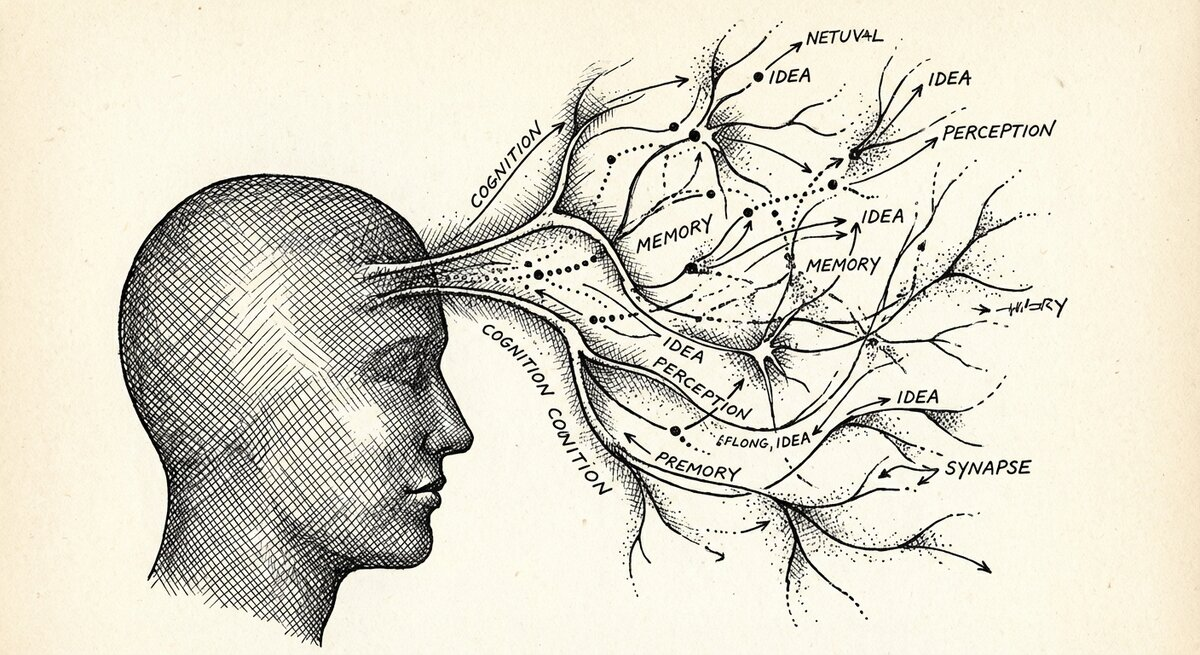
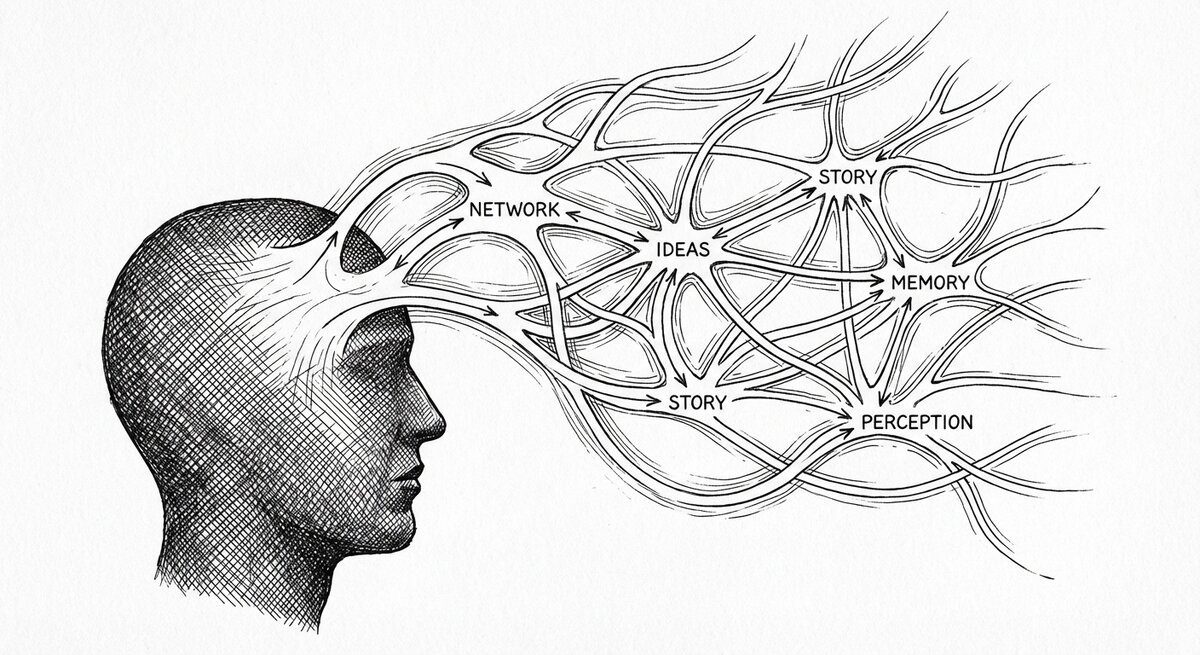
docs(figs): regenerate index_hero with correct English labels
The previous hero image on docs/index.md carried AI-gibberish labels
(NETUVAL, CONITION, EFLONG, PREMORY, HIRY) which immediately eroded
trust on the front page.

Regenerated with an explicit prompt constraint that nodes be labeled
ONLY with the exact English words NETWORK, IDEAS, CONTEXT, STORY,
MEMORY, PERCEPTION. Post-processed to 240 KB (JPEG @ 85%, 1200px long
edge, stripped metadata).

Alt text rewritten to reflect the new labels (content-focused, not
style-focused).

diff --git a/docs/index.md b/docs/index.md
@@ -1,6 +1,6 @@
 # SSTorytime
 
-![A profile silhouette with a network of labeled concept nodes — memory, idea, perception, synapse — expanding outward from the head, rendered in classical pen-and-ink cross-hatching.](figs/index_hero.jpg){ align=center }
+![Profile silhouette of a head on the left; a network of labeled concept nodes — NETWORK, IDEAS, CONTEXT, STORY, MEMORY, PERCEPTION — expands outward to the right like a cognitive map.](figs/index_hero.jpg){ align=center }
 
 > **A unified graph process for mapping knowledge.**
 > Semantic Spacetime Story graph database over PostgreSQL — an
